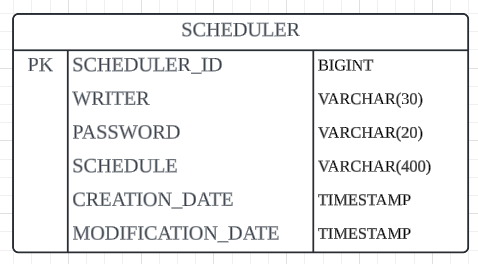
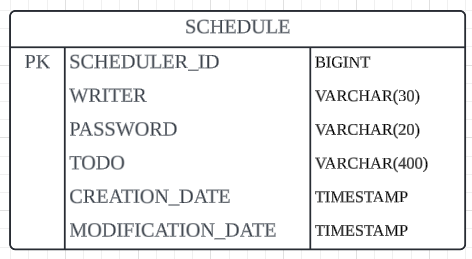
Entity 이름 변경 (SCHEDULER -> SCHEDULE), '할 일'에 대한 인스턴스명 변경 (SCHEDULE -> TODO)

Changed region(s): [[0.0, 0.0, 1.0, 1.0]]

diff --git a/README.md b/README.md
@@ -17,12 +17,12 @@
 ### 1) 필수 기능 ( ~ Lv 3)
 ![ERD1](/img/ERD1.png)      
 
-|    | SCHEDULER         | TYPE         |
+|    | SCHEDULE          | TYPE         |
 |:--:|-------------------|--------------|
 | PK | SCHEDULER_ID      | BIGINT       |
 |    | WRITER            | VARCHAR(30)  |
 |    | PASSWORD          | VARCHAR(20)  |
-|    | SCHEDULE          | VARCHAR(400) |
+|    | TODO              | VARCHAR(400) |
 |    | CREATION_DATE     | TIMESTAMP    |
 |    | MODIFICATION_DATE | TIMESTAMP    |
 
